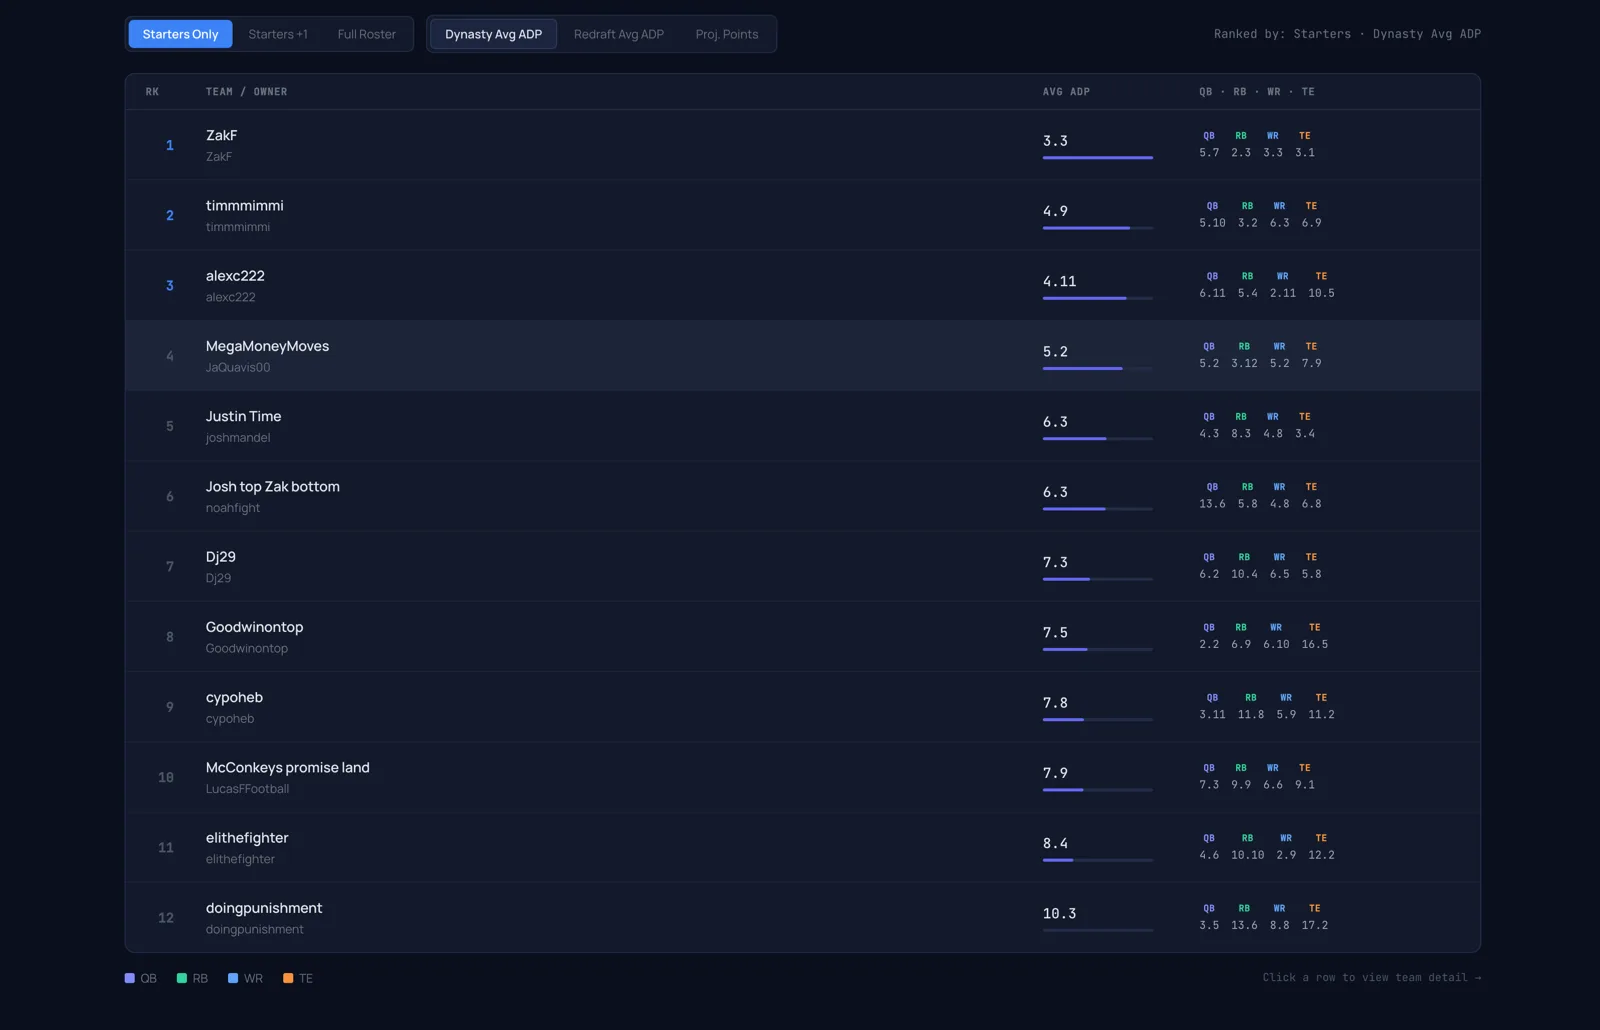
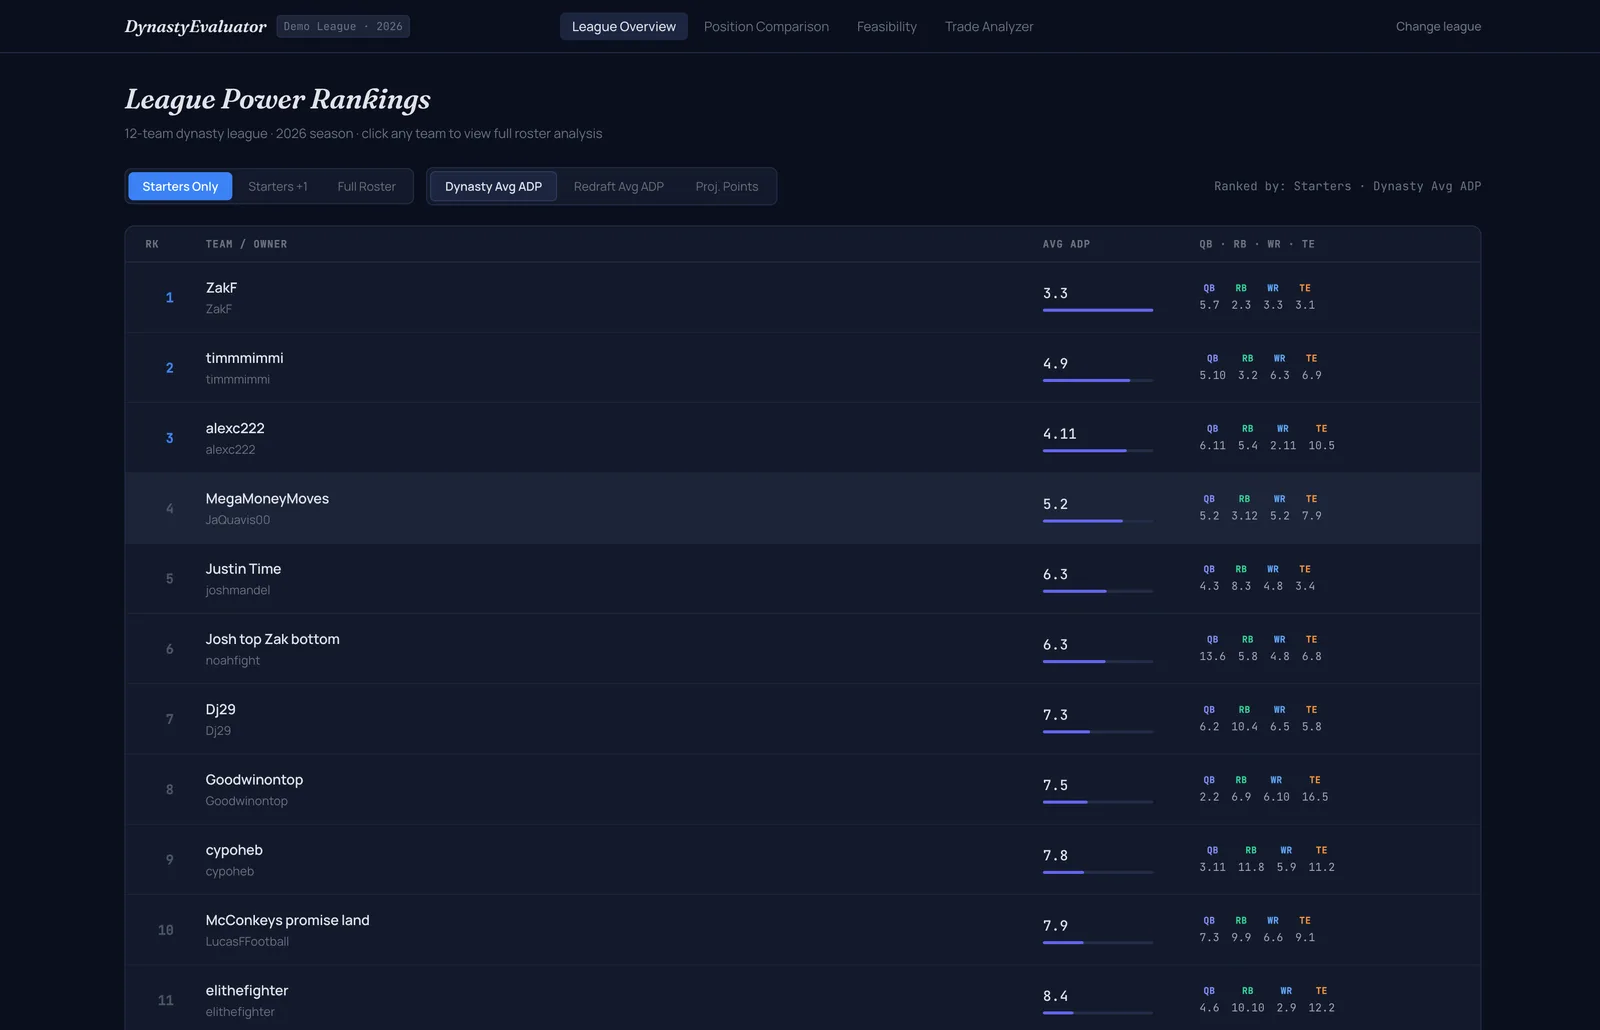
Recapture DynastyEvaluator screenshot with full header and rewrite copy
Previous crop still lost context. New capture shows the full header
nav, title, filters, and table with no cropping, matching the
reference composition. Tightened the project description.

diff --git a/index.html b/index.html
@@ -124,12 +124,12 @@
 
     <article class="project-card">
       <div class="project-media">
-        <img src="assets/projects/dynastyevaluator.webp" alt="DynastyEvaluator full league power rankings table showing all 12 teams ranked by dynasty value with a QB, RB, WR, TE position breakdown" />
+        <img src="assets/projects/dynastyevaluator.webp" alt="DynastyEvaluator dashboard showing the league power rankings page, with all 12 teams ranked by dynasty value and a QB, RB, WR, TE position breakdown" />
       </div>
       <div class="project-info">
         <span class="project-tag">Product Design + Data</span>
         <h3>DynastyEvaluator</h3>
-        <p>A fantasy football analytics dashboard for dynasty leagues. Plug in a Sleeper league and it ranks every team by dynasty value, redraft value, or projected points, broken down by position so you can see exactly where a roster is strong or thin.</p>
+        <p>A dynasty fantasy football dashboard that answers the question every league eventually asks: if we re-drafted today, who would actually be good? Plug in a Sleeper league and it ranks all 12 teams by dynasty value, redraft value, or projected points, position by position.</p>
         <div class="tech-tags">
           <span>React</span><span>TypeScript</span><span>Python (serverless)</span>
         </div>
